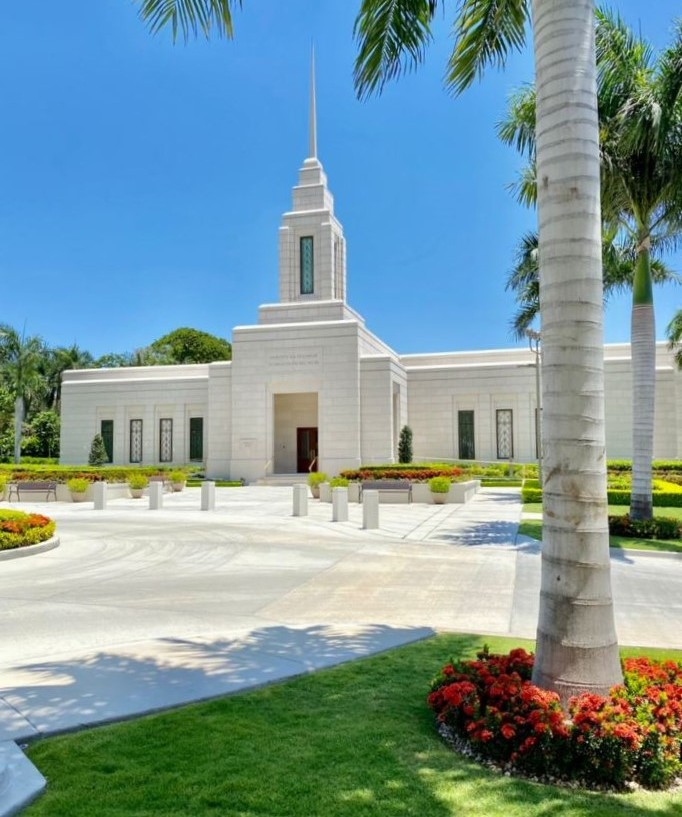
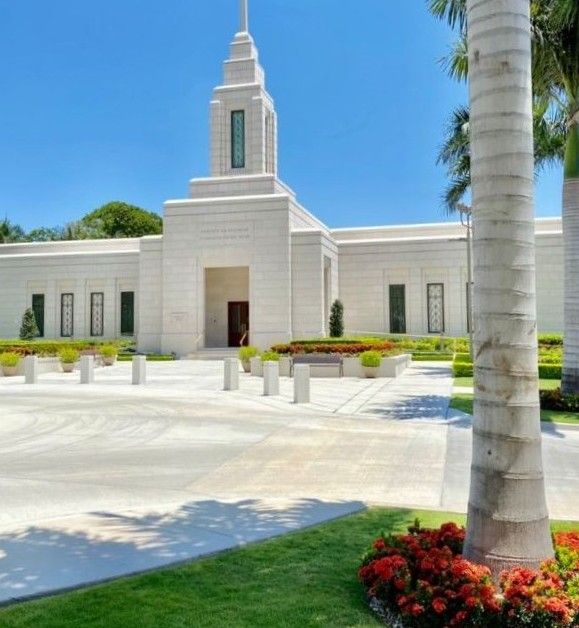
fixed images

diff --git a/temples.html b/temples.html
@@ -5,7 +5,7 @@
     <meta name="viewport" content="width=device-width, initial-scale=1.0">
 
     <title>WDD 131 - Temple Album - Kerlando Fucien</title>
-    <meta name="description" content="Temple Album - WDD 131 wek 02 Assignment">
+    <meta name="description" content="Temple Album - WDD 131 wek 02 Temple Album Project by Kerlando Fucien featuring a responsive temple with nine images">
     <meta name="author" content="Kerlando Fucien">
 
     <link rel="preconnect" href="https://fonts.googleapis.com">
@@ -37,47 +37,47 @@
     <h2>Home</h2>
     <div class="gallery">
             <figure>
-                <img src="images/temple.webp.jpg" alt="Temple" loading="lazy">
+                <img src="images/temple.webp.jpg" alt="Front view of the Haiti Port-au-Prince Temple" loading="lazy">
                 <figcaption>Haiti-Port-Au-Prince Temple</figcaption>
             </figure>
 
             <figure>
-                <img src="images/temple.webp.jpg" alt="Temple" loading="lazy">
+                <img src="images/temple.webp.jpg" alt="Front view of the Haiti Port-au-Prince Temple" loading="lazy">
                 <figcaption>Haiti-Port-Au-Prince Temple</figcaption>
             </figure>
 
             <figure>
-                <img src="images/temple.webp.jpg" alt="Temple" loading="lazy">
+                <img src="images/temple.webp.jpg" alt="Front view of the Haiti Port-au-Prince Temple" loading="lazy">
                 <figcaption>Haiti-Port-Au-Prince Temple</figcaption>
             </figure>
 
             <figure>
-                <img src="images/temple.webp.jpg" alt="Temple" loading="lazy">
+                <img src="images/temple.webp.jpg" alt="Front view of the Haiti Port-au-Prince Temple" loading="lazy">
                 <figcaption>Haiti-Port-Au-Prince Temple</figcaption>
             </figure>
 
             <figure>
-                <img src="images/temple.webp.jpg" alt="Temple" loading="lazy">
+                <img src="images/temple.webp.jpg" alt="Front view of the Haiti Port-au-Prince Temple" loading="lazy">
                 <figcaption>Haiti-Port-Au-Prince Temple</figcaption>
             </figure>
 
             <figure>
-                <img src="images/temple.webp.jpg" alt="Temple" loading="lazy">
+                <img src="images/temple.webp.jpg" alt="Front view of the Haiti Port-au-Prince Temple" loading="lazy">
                 <figcaption>Haiti-Port-Au-Prince Temple</figcaption>
             </figure>
 
             <figure>
-                <img src="images/temple.webp.jpg" alt="Temple" loading="lazy">
+                <img src="images/temple.webp.jpg" alt="Front view of the Haiti Port-au-Prince Temple" loading="lazy">
                 <figcaption>Haiti-Port-Au-Prince Temple</figcaption>
             </figure>
 
             <figure>
-                <img src="images/temple.webp.jpg" alt="Temple" loading="lazy">
+                <img src="images/temple.webp.jpg" alt="Front view of the Haiti Port-au-Prince Temple" loading="lazy">
                 <figcaption>Haiti-Port-Au-Prince Temple</figcaption>
             </figure>
 
             <figure>
-                <img src="images/temple.webp.jpg" alt="Temple" loading="lazy">
+                <img src="images/temple.webp.jpg" alt="Front view of the Haiti Port-au-Prince Temple" loading="lazy">
                 <figcaption>Haiti-Port-Au-Prince Temple</figcaption>
             </figure>
         </div>